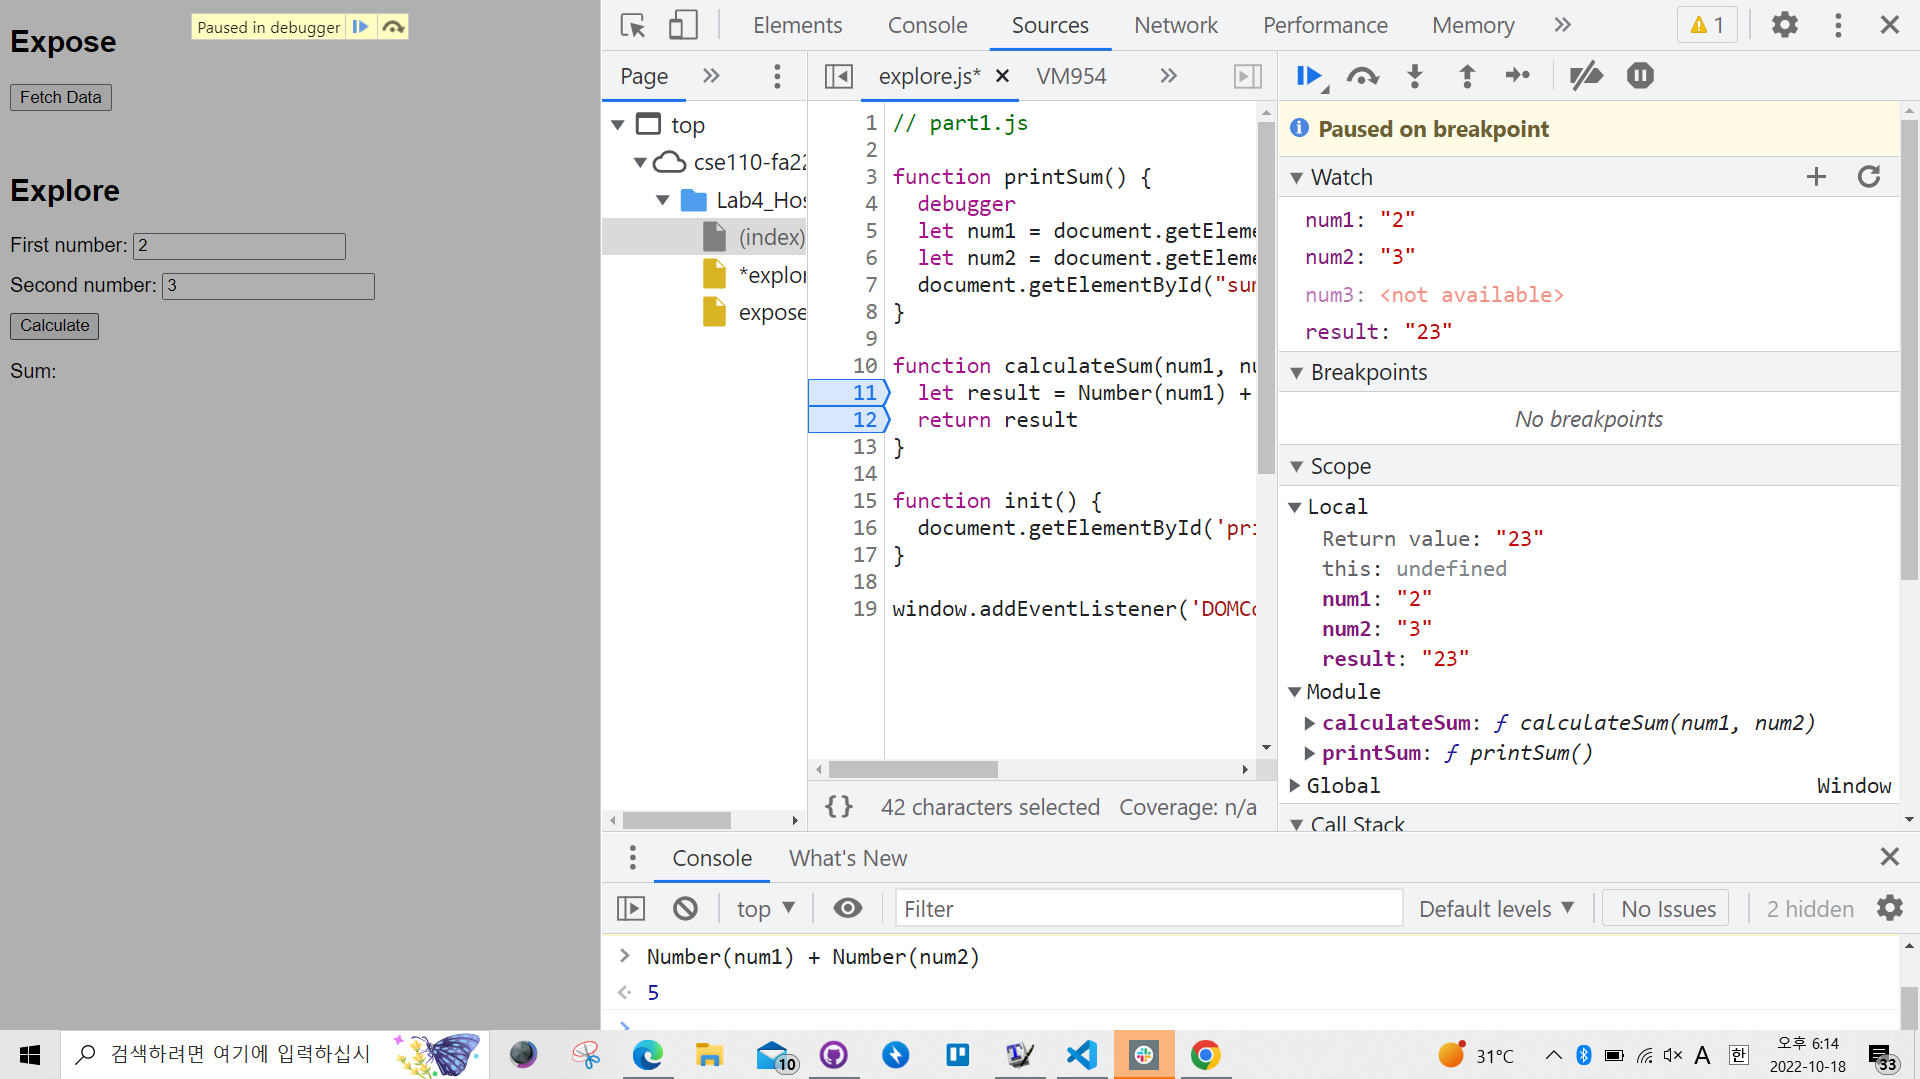
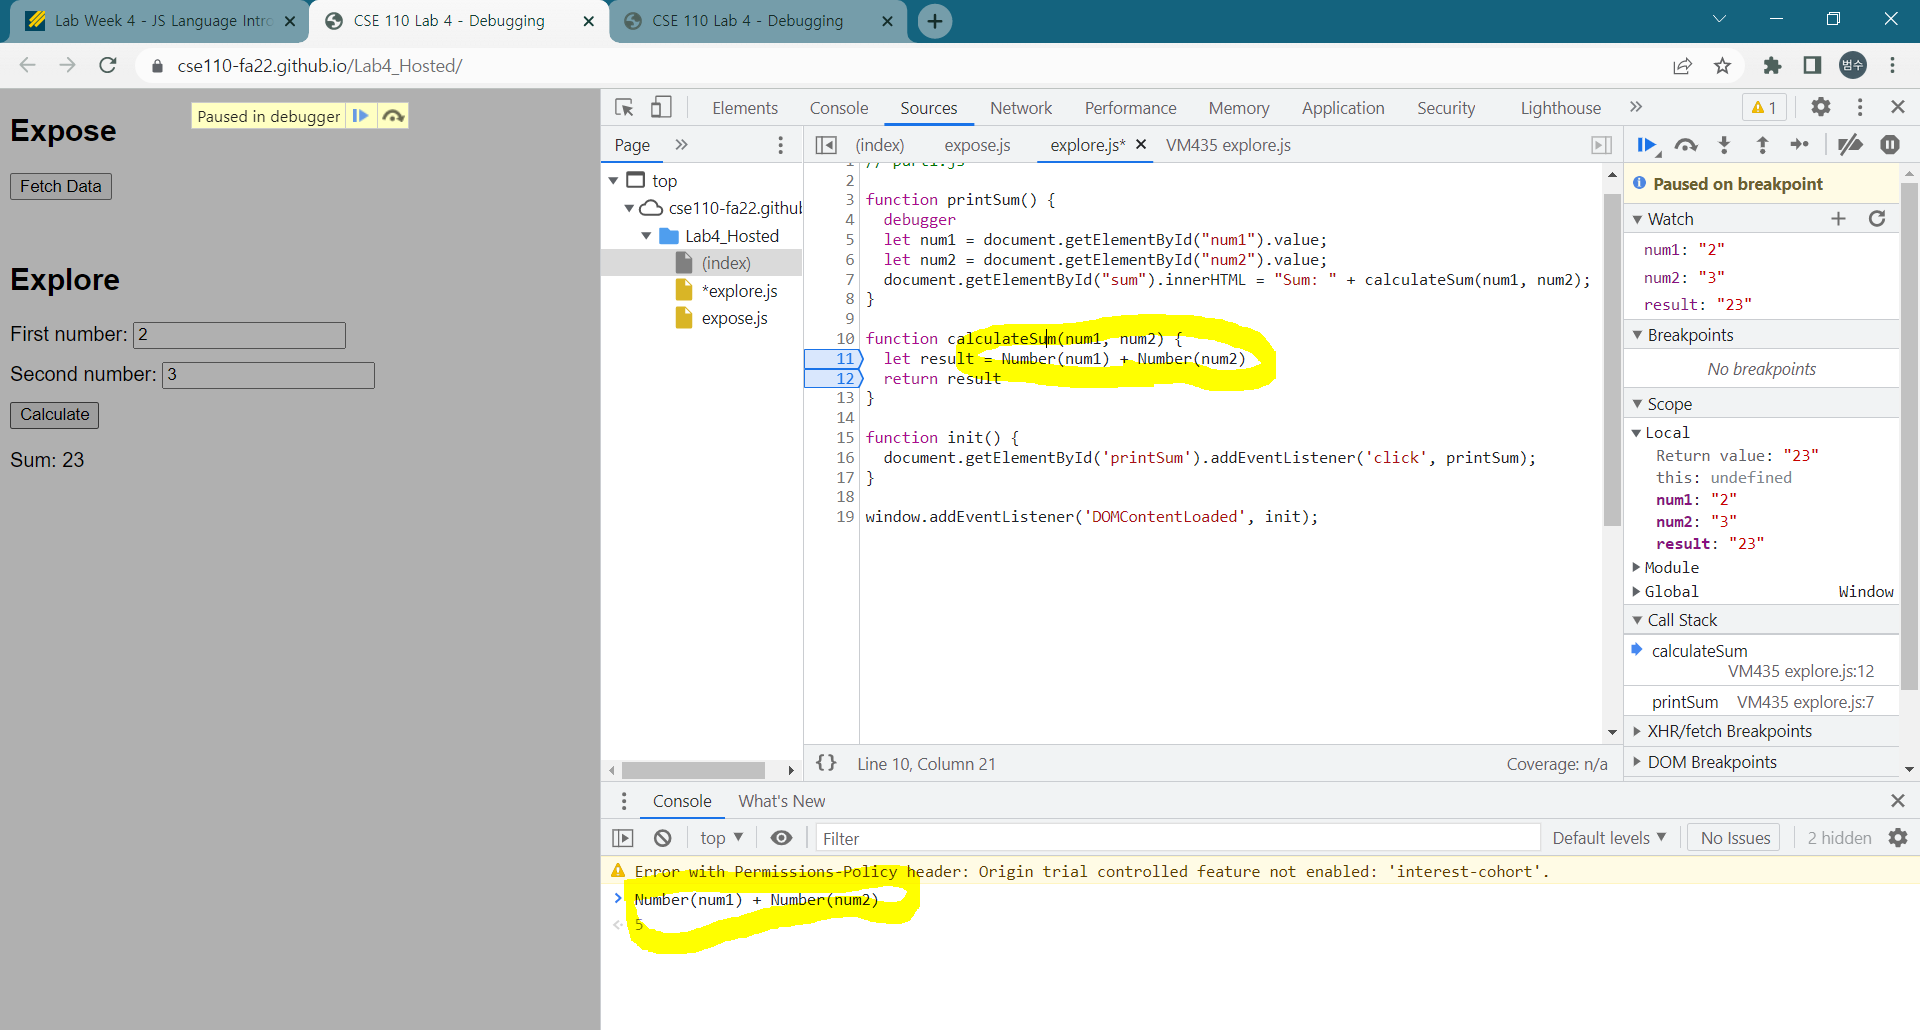
flow chart done

diff --git a/explore/devtools/devtools-pt2.md b/explore/devtools/devtools-pt2.md
@@ -1,5 +1,5 @@
-1. What was the bug?
-    The inputs are processed as strings not numbers. So the sum is concatenating the inputs.
-2. How would you fix it? Include a screenshot of your fix. Name it fix.png (or whatever image extension you would like to use)
-    I'll make line 11 to be 
-      let result = Number(num1) + Number(num2) using the Number function.
+1. What was the bug?<br />
+    &nbsp;&nbsp;&nbsp;&nbsp;**The inputs are processed as strings not numbers. So the sum is concatenating the inputs.**
+2. How would you fix it? Include a screenshot of your fix. Name it fix.png (or whatever image extension you would like to use)<br />
+    &nbsp;&nbsp;&nbsp;&nbsp;**I'll make line 11 to be 
+      `let result = Number(num1) + Number(num2)` using the `Number` function.**
